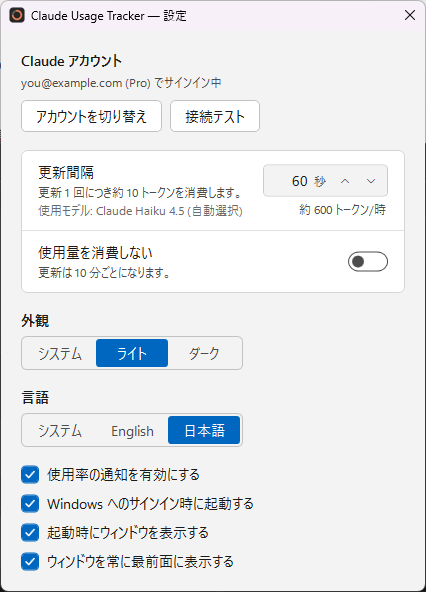
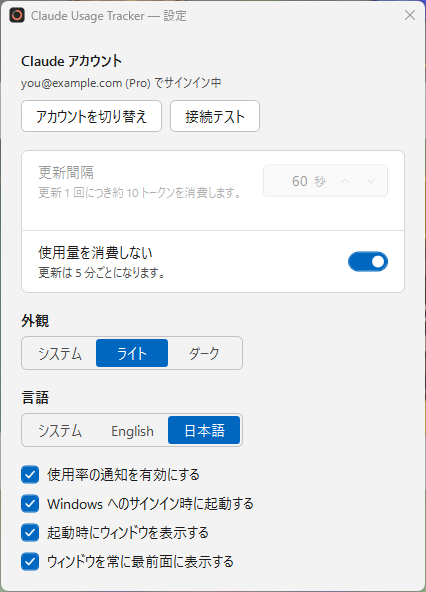
修正

diff --git a/src/ClaudeUsageTracker.App/Views/SettingsWindow.xaml b/src/ClaudeUsageTracker.App/Views/SettingsWindow.xaml
@@ -109,7 +109,7 @@
             </TextBlock>
         </Border>
 
-        <!-- Interval and token-free mode share one card: the toggle fixes the interval at 10 minutes. -->
+        <!-- Interval and token-free mode share one card: the toggle fixes the interval at 5 minutes. -->
         <Border Style="{StaticResource SettingsCardStyle}" Margin="0,0,0,18">
             <StackPanel>
                 <Grid Margin="16,12">
@@ -117,7 +117,17 @@
                         <ColumnDefinition Width="*" />
                         <ColumnDefinition Width="Auto" />
                     </Grid.ColumnDefinitions>
+                    <!-- Dimmed with the box in token-free mode: the interval and its cost only apply when it's off. -->
                     <StackPanel VerticalAlignment="Center" Margin="0,0,16,0">
+                        <StackPanel.Style>
+                            <Style TargetType="StackPanel">
+                                <Style.Triggers>
+                                    <DataTrigger Binding="{Binding IsRefreshIntervalEditable}" Value="False">
+                                        <Setter Property="Opacity" Value="0.45" />
+                                    </DataTrigger>
+                                </Style.Triggers>
+                            </Style>
+                        </StackPanel.Style>
                         <TextBlock Text="{loc:Tr Settings_RefreshInterval}" Style="{StaticResource BodyTextStyle}"
                                    Foreground="{DynamicResource TextPrimaryBrush}" />
                         <!-- Always visible: the per-refresh cost, or the error in red while the typed
@@ -149,7 +159,7 @@
                         </TextBlock>
                     </StackPanel>
                     <StackPanel Grid.Column="1" VerticalAlignment="Center">
-                        <!-- NumberBox-style field. Disabled in token-free mode, which always refreshes every 10 minutes. -->
+                        <!-- NumberBox-style field. Disabled in token-free mode, which always refreshes every 5 minutes. -->
                         <Border Height="32" CornerRadius="4" BorderThickness="1"
                                 Background="{DynamicResource WindowBackgroundBrush}"
                                 IsEnabled="{Binding IsRefreshIntervalEditable}">

diff --git a/src/ClaudeUsageTracker.App/Services/UsageFetcher.cs b/src/ClaudeUsageTracker.App/Services/UsageFetcher.cs
@@ -27,7 +27,17 @@ public sealed record UsageFetchResult
     public static UsageFetchResult Failure(string error, UsageStatusLevel? status = null, bool canSignIn = false)
         => new() { Error = error, ErrorStatus = status, CanSignIn = canSignIn };
 
+    /// <summary>
+    /// Token-free mode only: the usage endpoint was asked too recently, so it wasn't asked again.
+    /// How long until it may be. The caller keeps showing what it has.
+    /// </summary>
+    public TimeSpan? RetryAfter { get; private init; }
+
     public static UsageFetchResult RateLimited() => new() { UsageEndpointRateLimited = true };
+
+    /// <param name="rateLimited">Held back because the endpoint answered 429 last time, not just because it was asked moments ago.</param>
+    public static UsageFetchResult Throttled(TimeSpan retryAfter, bool rateLimited)
+        => new() { RetryAfter = retryAfter, UsageEndpointRateLimited = rateLimited };
 }
 
 /// <summary>
@@ -37,29 +47,61 @@ public sealed record UsageFetchResult
 ///   <item>Default: a one-token Messages API prompt (consumes a tiny amount of usage; not
 ///   rate-limited like the usage endpoint, so it can refresh often).</item>
 ///   <item><see cref="AppSettings.AvoidTokenUsage"/>: the free usage endpoint only (no usage
-///   consumed; rate-limited, hence the fixed 10-minute interval).</item>
+///   consumed; rate-limited, hence the fixed 5-minute interval and the back-off after a 429).</item>
 /// </list>
 /// An expired or rejected sign-in is reported (with a sign-in option), never refreshed by
 /// the app. Credential discovery shells out to wsl.exe / where.exe, so it runs off the UI thread.
 /// </summary>
 public sealed class UsageFetcher(ClaudeCodeUsageClient usageClient, AppSettingsStore settingsStore)
 {
+    /// <summary>
+    /// Shortest gap between two calls to the free usage endpoint. Refresh buttons, the tray menu,
+    /// sign-in changes and Test connection all bypass the 5-minute timer; without this, a few
+    /// clicks could trip its rate limit (HTTP 429), which can take an hour or more to lift.
+    /// </summary>
+    public static readonly TimeSpan MinUsageEndpointSpacing = TimeSpan.FromMinutes(2);
+
+    // When the usage endpoint was last actually called (whatever the outcome).
+    private DateTimeOffset? _lastUsageEndpointCall;
+
+    // Set while the last call was answered with 429: calls then wait the longer retry interval.
+    private bool _usageEndpointLimited;
+
+    // The timer ticks a little before the time the call itself is stamped (credential lookup runs
+    // first), so a wait of exactly one interval would push the retry a whole tick later.
+    private static readonly TimeSpan TimerSlack = TimeSpan.FromSeconds(30);
+
     /// <summary>The model token-using refreshes prompt (switches automatically if it's retired).</summary>
     public string ProbeModel => usageClient.ProbeModel;
 
     /// <param name="avoidTokenUsage">Overrides the saved mode (Test connection checks the unsaved choice).</param>
     public async Task<UsageFetchResult> FetchAsync(bool? avoidTokenUsage = null, CancellationToken ct = default)
     {
+        var avoidTokens = avoidTokenUsage ?? settingsStore.Current.AvoidTokenUsage;
+        if (avoidTokens && _lastUsageEndpointCall is { } lastCall)
+        {
+            // Rate-limited: skip the next regular refresh and retry 10 minutes after the 429.
+            var spacing = _usageEndpointLimited
+                ? TimeSpan.FromSeconds(AppSettings.TokenFreeRateLimitedRetrySeconds) - TimerSlack
+                : MinUsageEndpointSpacing;
+            var wait = lastCall + spacing - DateTimeOffset.Now;
+            if (wait > TimeSpan.Zero)
+                return UsageFetchResult.Throttled(wait, _usageEndpointLimited);
+        }
+
         var resolution = await Task.Run(ClaudeCredentialResolver.Resolve, ct);
         if (resolution.Credentials is not { } credentials)
             return await Task.Run(() => DescribeMissingCredentials(resolution), ct);
 
-        var avoidTokens = avoidTokenUsage ?? settingsStore.Current.AvoidTokenUsage;
         try
         {
+            if (avoidTokens)
+                _lastUsageEndpointCall = DateTimeOffset.Now;
             var usage = avoidTokens
                 ? await usageClient.GetUsageAsync(credentials, ct)
                 : await usageClient.GetUsageViaMessagesApiAsync(credentials, ct);
+            if (avoidTokens)
+                _usageEndpointLimited = false;
             return UsageFetchResult.Success(usage);
         }
         catch (AuthRequiredException)
@@ -68,6 +110,7 @@ public sealed class UsageFetcher(ClaudeCodeUsageClient usageClient, AppSettingsS
         }
         catch (ClaudeApiException ex) when (avoidTokens && ex.StatusCode == 429)
         {
+            _usageEndpointLimited = true;
             return UsageFetchResult.RateLimited();
         }
         catch (ClaudeApiException ex)

diff --git a/src/ClaudeUsageTracker.App/Settings/AppSettings.cs b/src/ClaudeUsageTracker.App/Settings/AppSettings.cs
@@ -16,9 +16,17 @@ public sealed class AppSettings
 
     /// <summary>
     /// Fixed interval in token-free mode: the free usage endpoint rate-limits (HTTP 429)
-    /// frequent polling hard, so it's only asked every 10 minutes.
+    /// frequent polling hard (and may take an hour or more to lift), so it's only asked every
+    /// 5 minutes — polling every 2 minutes has been seen to work, this leaves headroom.
     /// </summary>
-    public const int TokenFreeRefreshIntervalSeconds = 600;
+    public const int TokenFreeRefreshIntervalSeconds = 300;
+
+    /// <summary>
+    /// After a 429 from the usage endpoint, the next attempt waits this long instead (one regular
+    /// refresh is skipped), and keeps doing so until a call succeeds. Never polls faster than the
+    /// old fixed 10-minute interval while limited, so it can't prolong a limit more than that did.
+    /// </summary>
+    public const int TokenFreeRateLimitedRetrySeconds = 600;
 
     /// <summary>Used in the default (token-using) mode; ignored while <see cref="AvoidTokenUsage"/> is on.</summary>
     public int RefreshIntervalSeconds { get; set; } = 60;
@@ -30,11 +38,13 @@ public sealed class AppSettings
     public bool AlwaysOnTop { get; set; } = true;
 
     /// <summary>
-    /// Off (default): usage is read from a one-token Messages API prompt on every refresh,
-    /// which consumes a tiny amount of usage but isn't rate-limited like the usage endpoint.
-    /// On: only the free usage endpoint is used (no usage consumed), every 10 minutes.
+    /// On (default): only the free usage endpoint is used (no usage consumed), every 5 minutes —
+    /// a usage tracker shouldn't quietly spend the usage it tracks.
+    /// Off: usage is read from a one-token Messages API prompt on every refresh, which consumes a
+    /// tiny amount of usage but isn't rate-limited like the usage endpoint, so it can refresh often.
+    /// Existing settings files keep whatever they saved; the default only applies to new installs.
     /// </summary>
-    public bool AvoidTokenUsage { get; set; }
+    public bool AvoidTokenUsage { get; set; } = true;
 
     [JsonConverter(typeof(JsonStringEnumConverter<AppTheme>))]
     public AppTheme Theme { get; set; } = AppTheme.System;

diff --git a/src/ClaudeUsageTracker.App/ViewModels/FlyoutViewModel.cs b/src/ClaudeUsageTracker.App/ViewModels/FlyoutViewModel.cs
@@ -29,6 +29,10 @@ public partial class FlyoutViewModel : ObservableObject
     private DateTimeOffset? _lastUpdatedAt;
     private ClaudeUsage? _lastUsage;
 
+    // A short note shown in place of the last-updated text until this time (see ShowFooterNote).
+    private DateTimeOffset _footerNoteUntil;
+    private static readonly TimeSpan FooterNoteDuration = TimeSpan.FromSeconds(4);
+
     public ObservableCollection<UsageRowViewModel> Rows { get; } = [];
 
     public event Action? RefreshRequested;
@@ -84,12 +88,33 @@ public partial class FlyoutViewModel : ObservableObject
         RefreshLastUpdatedText(now);
     }
 
+    /// <summary>
+    /// Briefly shows <paramref name="note"/> where the last-updated text is (e.g. "Can refresh in
+    /// 2 min"), then puts that text back. For passing information that doesn't warrant a banner.
+    /// </summary>
+    public void ShowFooterNote(string note)
+    {
+        LastUpdatedText = note;
+        _footerNoteUntil = DateTimeOffset.Now + FooterNoteDuration;
+
+        var timer = new System.Windows.Threading.DispatcherTimer { Interval = FooterNoteDuration };
+        timer.Tick += (_, _) =>
+        {
+            timer.Stop();
+            if (_lastUsage is null)
+                LastUpdatedText = Loc.Get("Flyout_NeverRefreshed");
+            else
+                RefreshLastUpdatedText(DateTimeOffset.Now);
+        };
+        timer.Start();
+    }
+
     /// <summary>Recomputes the relative "Updated N min ago" text (minute granularity, so it
     /// rarely changes width) and its exact-time tooltip. Called periodically while the
     /// flyout is visible so the relative time stays current.</summary>
     public void RefreshLastUpdatedText(DateTimeOffset now)
     {
-        if (_lastUpdatedAt is not { } updatedAt)
+        if (_lastUpdatedAt is not { } updatedAt || now < _footerNoteUntil)
             return;
 
         var elapsed = now - updatedAt;

diff --git a/src/ClaudeUsageTracker.App/Services/UsageRefreshCoordinator.cs b/src/ClaudeUsageTracker.App/Services/UsageRefreshCoordinator.cs
@@ -65,11 +65,19 @@ public sealed class UsageRefreshCoordinator
     /// </summary>
     public void ApplyResult(UsageFetchResult result)
     {
+        if (result.RetryAfter is { } retryAfter)
+        {
+            // Token-free mode, asked again too soon: not an error, so no banner — keep the numbers
+            // and say briefly when a refresh will work.
+            _flyoutViewModel.ShowFooterNote(Loc.Format("Flyout_RefreshAvailableIn", (int)Math.Ceiling(retryAfter.TotalMinutes)));
+            return;
+        }
+
         if (result is { UsageEndpointRateLimited: true, Usage: null })
         {
             // Token-free mode only. Keep showing the last good numbers; the next regular
-            // (10-minute) refresh is the retry.
-            _flyoutViewModel.SetBanner(Loc.Format("Error_RateLimited", AppSettings.TokenFreeRefreshIntervalSeconds / 60));
+            // retry is 10 minutes out (UsageFetcher skips one regular refresh after a 429).
+            _flyoutViewModel.SetBanner(Loc.Format("Error_RateLimited", AppSettings.TokenFreeRateLimitedRetrySeconds / 60));
             return;
         }
 

diff --git a/src/ClaudeUsageTracker.App/ViewModels/SettingsViewModel.cs b/src/ClaudeUsageTracker.App/ViewModels/SettingsViewModel.cs
@@ -341,9 +341,11 @@ public partial class SettingsViewModel : ObservableObject
         {
             // Tests the mode currently ticked here, even before it's saved.
             var result = await _usageFetcher.FetchAsync(AvoidTokenUsage);
-            StatusIsError = result.Usage is null;
+            // Held back only because it was checked moments ago isn't a failure; everything else without usage is.
+            StatusIsError = result is { Usage: null } and not { RetryAfter: not null, UsageEndpointRateLimited: false };
             StatusMessage = result switch
             {
+                { RetryAfter: { } wait, UsageEndpointRateLimited: false } => Loc.Format("Settings_TestAvailableIn", (int)Math.Ceiling(wait.TotalMinutes)),
                 { Usage: { } usage } => Loc.Format("Settings_Connected", usage.SessionPercentage, usage.WeeklyPercentage),
                 { UsageEndpointRateLimited: true } => Loc.Get("Settings_ConnectedRateLimited"),
                 _ => result.Error
